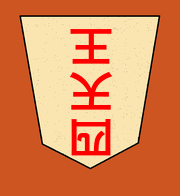
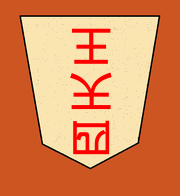
Handle 3 kanji situation from dimensions json

Changed region(s): [[0.3889, 0.3673, 0.6389, 0.7959], [0.3889, 0.1224, 0.6389, 0.3367], [0.3889, 0.3061, 0.4167, 0.3367]]

diff --git a/classes/chu_piece_maker.py b/classes/chu_piece_maker.py
@@ -37,12 +37,14 @@ class ChuPieceMaker():
         file1.close()
         self.fullsquarewidth = self.dimension_data['fullsquarewidth']
         self.fullsquareheight = self.dimension_data['fullsquareheight']
-        assert self.dimension_data['tiletypes'][0]['tiletypename'] == "A_tokinstyle"
-        assert self.dimension_data['tiletypes'][1]['tiletypename'] == "A"
-        assert self.dimension_data['tiletypes'][2]['tiletypename'] == "B"
-        assert self.dimension_data['tiletypes'][3]['tiletypename'] == "B_plus"
-        assert self.dimension_data['tiletypes'][4]['tiletypename'] == "C"
-        assert self.dimension_data['tiletypes'][5]['tiletypename'] == "D"
+        a = [self.dimension_data['tiletypes'][i]['tiletypename'] for i in range(len(self.dimension_data['tiletypes']))]
+        print(a)
+        if set(a) == {'A_tokinstyle', 'A', 'B', 'B_plus', 'C', 'D'}:
+            pass
+        elif set(a) == {'A_tokinstyle', 'A', 'B', 'B_plus', 'C', 'C_3kanji', 'D'}:
+            pass
+        else:
+            raise Exception("Unexpected or missing values in tiletype name")
 
     def resize_and_save_dimensions(self, filename="", scalefactor=7.4):
         self.dimension_data['fullsquarewidth'] = int(self.dimension_data['fullsquarewidth'] // scalefactor)
@@ -154,8 +156,8 @@ class ChuPieceMaker():
         return new_img
 
     def put_kanji(self, pimage: Image, x: int, y: int, piecename: str,
-                  fontsize: int, fontcolor: tuple, single_kanji=False):
-        mymarge = self.dimension_data['marge_to_2nd_kanji']
+                  fontsize: int, fontcolor: tuple,
+                  single_kanji=False, marge_to_2nd_kanji=0):
         draw = ImageDraw.Draw(pimage)
 
         if fontsize <= 22:
@@ -175,20 +177,6 @@ class ChuPieceMaker():
                 draw.text((x, y),mytext,fontcolor,font=font_escape)
             else:
                 draw.text((x, y),mytext,fontcolor,font=font)
-        elif len(self.kanji_data[piecename]['full_kanji']) > 2:
-            #FOR NOW this only works for tiletype C
-            #TODO properly handle kanji length 3 (Heavenly Tetrarch)
-            y2 = 9 #4
-            f2 = 46 #19
-            delta_x = 9 #4
-            mymarge = 0
-            font = ImageFont.truetype("C:\\Windows\\Fonts\\YuGothB.ttc", f2)
-            mytext = self.kanji_data[piecename]['full_kanji'][0]
-            draw.text((x + delta_x, y2),mytext,fontcolor,font=font)
-            mytext = self.kanji_data[piecename]['full_kanji'][1]
-            draw.text((x + delta_x, y2 + f2 + mymarge),mytext,fontcolor,font=font)
-            mytext = self.kanji_data[piecename]['full_kanji'][2]
-            draw.text((x + delta_x, y2 + 2 * (f2 + mymarge)),mytext,fontcolor,font=font)
         else:
             mytext = self.kanji_data[piecename]['full_kanji'][0]
             if piecename in ["howling_dog"]:
@@ -196,7 +184,10 @@ class ChuPieceMaker():
             else:
                 draw.text((x, y),mytext,fontcolor,font=font)
             mytext = self.kanji_data[piecename]['full_kanji'][1]
-            draw.text((x, y + fontsize + mymarge),mytext,fontcolor,font=font)
+            draw.text((x, y + fontsize + marge_to_2nd_kanji),mytext,fontcolor,font=font)
+            if len(self.kanji_data[piecename]['full_kanji']) > 2:
+                mytext = self.kanji_data[piecename]['full_kanji'][2]
+                draw.text((x, y + 2 * (fontsize + marge_to_2nd_kanji)),mytext,fontcolor,font=font)
 
     def resize_image(self, pimage: Image, new_width: int, new_height: int):
         if pimage.width == new_width and pimage.height == new_height:
@@ -217,6 +208,11 @@ class ChuPieceMaker():
         fs = self.dimension_data['tiletypes'][tiletype_idx]['font_size']
         single_kanji = self.dimension_data['tiletypes'][tiletype_idx]['single_kanji']
 
+        try:
+            marge_to_2nd_kanji = self.dimension_data['tiletypes'][tiletype_idx]['marge_to_2nd_kanji']
+        except:
+            marge_to_2nd_kanji = self.dimension_data['marge_to_2nd_kanji']
+
         #for tokin-style we always use single kanji
         if ispromoted:
             usefontcolor = (255, 0, 0)
@@ -224,7 +220,8 @@ class ChuPieceMaker():
             usefontcolor = (0, 0, 0)
         mypieceimage = self.resize_image(self.mycolouredtemplate, w, h)
         self.put_kanji(pimage=mypieceimage, x=kx, y=ky, piecename=piecename,
-                                fontsize=fs, fontcolor=usefontcolor, single_kanji=single_kanji)
+                                fontsize=fs, fontcolor=usefontcolor,
+                                single_kanji=single_kanji, marge_to_2nd_kanji=marge_to_2nd_kanji)
         mypieceimage = self.enlargesquare(mypieceimage)
         if rotate == True:
             mypieceimage = mypieceimage.rotate(180)

diff --git a/run_chu_piece_maker.py b/run_chu_piece_maker.py
@@ -39,6 +39,10 @@ def create_piece_size_C(piecename: str, rotate: bool = False, ispromoted: bool =
     mypieceimage = MyChuPieceMaker.create_piece_size_fromjson(piecename=piecename, rotate=rotate, ispromoted=ispromoted, tiletypename="C")
     MyChuPieceMaker.save_image(mypieceimage, imagefilename(piecename=piecename, rotate=rotate, ispromoted=ispromoted))
 
+def create_piece_size_C_3kanji(piecename: str, rotate: bool = False, ispromoted: bool = False):
+    mypieceimage = MyChuPieceMaker.create_piece_size_fromjson(piecename=piecename, rotate=rotate, ispromoted=ispromoted, tiletypename="C_3kanji")
+    MyChuPieceMaker.save_image(mypieceimage, imagefilename(piecename=piecename, rotate=rotate, ispromoted=ispromoted))
+
 def create_piece_size_D(piecename: str, rotate: bool = False, ispromoted: bool = False):
     mypieceimage = MyChuPieceMaker.create_piece_size_fromjson(piecename=piecename, rotate=rotate, ispromoted=ispromoted, tiletypename="D")
     MyChuPieceMaker.save_image(mypieceimage, imagefilename(piecename=piecename, rotate=rotate, ispromoted=ispromoted))
@@ -67,14 +71,14 @@ def add_for_taikyoku():
     create_piece_size_C(piecename="beast_cadet", rotate=True)
     create_piece_size_C(piecename="beast_cadet", ispromoted=True)
     create_piece_size_C(piecename="beast_cadet", rotate=True, ispromoted=True)
-    create_piece_size_C(piecename="right_mountain_eagle")
-    create_piece_size_C(piecename="right_mountain_eagle", rotate=True)
-    create_piece_size_C(piecename="right_mountain_eagle", ispromoted=True)
-    create_piece_size_C(piecename="right_mountain_eagle", rotate=True, ispromoted=True)
-    create_piece_size_C(piecename="left_mountain_eagle")
-    create_piece_size_C(piecename="left_mountain_eagle", rotate=True)
-    create_piece_size_C(piecename="left_mountain_eagle", ispromoted=True)
-    create_piece_size_C(piecename="left_mountain_eagle", rotate=True, ispromoted=True)
+    create_piece_size_C_3kanji(piecename="right_mountain_eagle")
+    create_piece_size_C_3kanji(piecename="right_mountain_eagle", rotate=True)
+    create_piece_size_C_3kanji(piecename="right_mountain_eagle", ispromoted=True)
+    create_piece_size_C_3kanji(piecename="right_mountain_eagle", rotate=True, ispromoted=True)
+    create_piece_size_C_3kanji(piecename="left_mountain_eagle")
+    create_piece_size_C_3kanji(piecename="left_mountain_eagle", rotate=True)
+    create_piece_size_C_3kanji(piecename="left_mountain_eagle", ispromoted=True)
+    create_piece_size_C_3kanji(piecename="left_mountain_eagle", rotate=True, ispromoted=True)
     create_piece_size_C(piecename="running_rabbit")
     create_piece_size_C(piecename="running_rabbit", rotate=True)
     create_piece_size_C(piecename="running_rabbit", ispromoted=True)
@@ -571,10 +575,10 @@ def add_for_taikyoku():
     create_piece_size_C(piecename="running_leopard", rotate=True, ispromoted=True)
     create_piece_size_C(piecename="strong_bear", ispromoted=True)
     create_piece_size_C(piecename="strong_bear", rotate=True, ispromoted=True)
-    create_piece_size_C(piecename="right_iron_chariot", ispromoted=True)
-    create_piece_size_C(piecename="right_iron_chariot", rotate=True, ispromoted=True)
-    create_piece_size_C(piecename="left_iron_chariot", ispromoted=True)
-    create_piece_size_C(piecename="left_iron_chariot", rotate=True, ispromoted=True)
+    create_piece_size_C_3kanji(piecename="right_iron_chariot", ispromoted=True)
+    create_piece_size_C_3kanji(piecename="right_iron_chariot", rotate=True, ispromoted=True)
+    create_piece_size_C_3kanji(piecename="left_iron_chariot", ispromoted=True)
+    create_piece_size_C_3kanji(piecename="left_iron_chariot", rotate=True, ispromoted=True)
     create_piece_size_C(piecename="fire_ox", ispromoted=True)
     create_piece_size_C(piecename="fire_ox", rotate=True, ispromoted=True)
     create_piece_size_C(piecename="longbow_general", ispromoted=True)
@@ -882,8 +886,8 @@ def add_for_tenjiku():
     create_piece_size_C(piecename="fire_demon", ispromoted=True, rotate=True)
     create_piece_size_C(piecename="great_general", ispromoted=True)
     create_piece_size_C(piecename="great_general", ispromoted=True, rotate=True)
-    create_piece_size_C(piecename="heavenly_tetrarch", ispromoted=True)
-    create_piece_size_C(piecename="heavenly_tetrarch", ispromoted=True, rotate=True)
+    create_piece_size_C_3kanji(piecename="heavenly_tetrarch", ispromoted=True)
+    create_piece_size_C_3kanji(piecename="heavenly_tetrarch", ispromoted=True, rotate=True)
     create_piece_size_C(piecename="lion_hawk", ispromoted=True)
     create_piece_size_C(piecename="lion_hawk", ispromoted=True, rotate=True)
     create_piece_size_C(piecename="rook_general", ispromoted=True)
